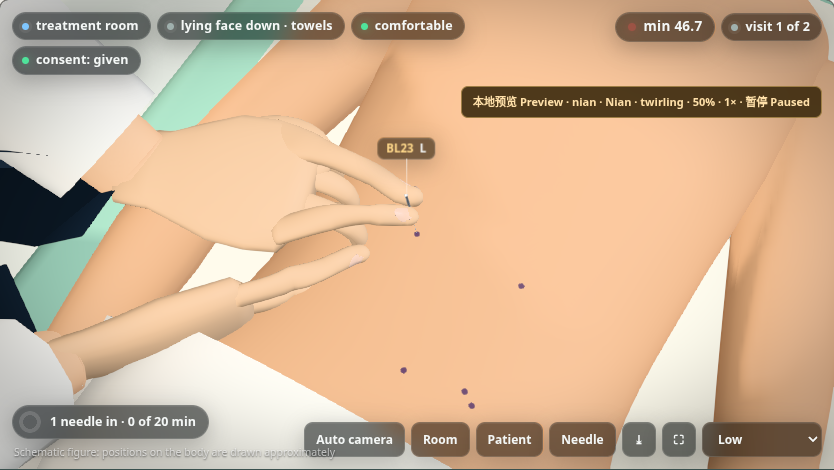
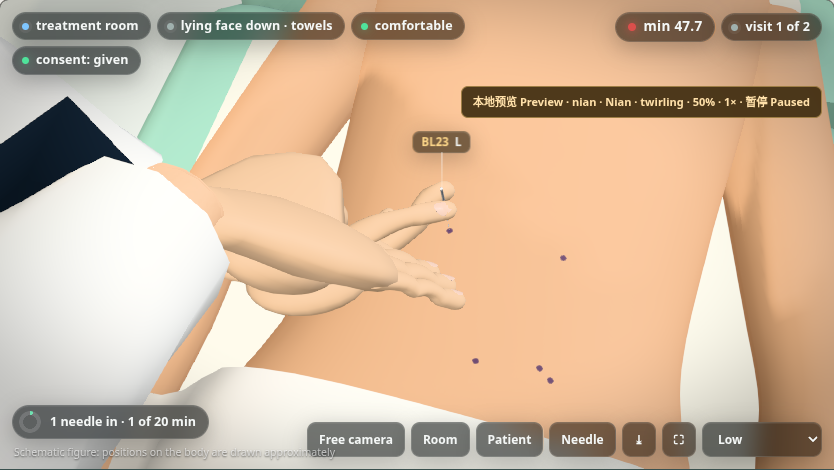
Refresh thumb-index clinic views and Blender anatomy evidence

diff --git a/docs/HANDS.md b/docs/HANDS.md
@@ -8,6 +8,11 @@ animation asset, without anatomical or clinical validation.
 
 ![The live renderer's precision pinch from the side, showing the actual finger surfaces around the needle handle](img/technique-grip-closeup.png)
 
+The same asset in Blender, with the radial thumb origin, thenar mound and its two
+exposed phalanges visible independently of the supporting hand:
+
+![Blender render of the actual hand asset and thumb-index hold](img/technique-thumb-anatomy.png)
+
 Rebuild with Blender 4.3 or newer:
 
 ```bash
